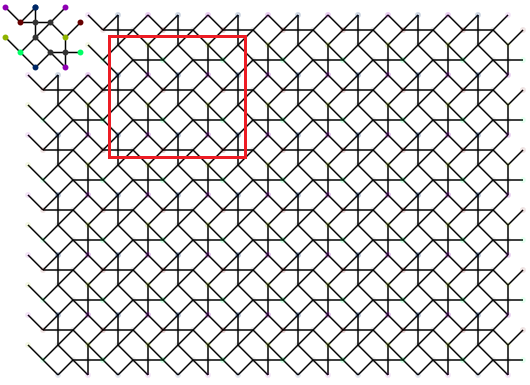
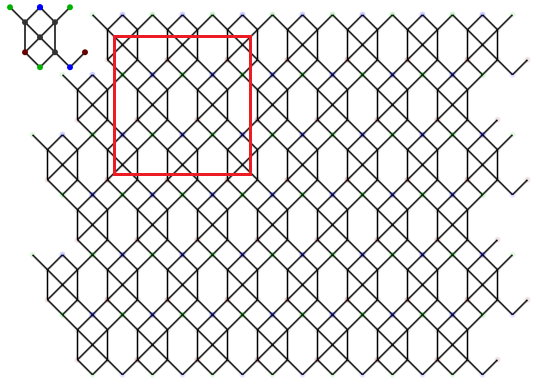
nr of columns versus pairs

diff --git a/Parameters.md b/Parameters.md
@@ -19,8 +19,8 @@ For larger diagrams in the sense of more stitches, increase rows and columns in 
 _Warning_ : With complex stitches and large numbers of rows and columns, your browser can get overwhelmed when showing the diagrams of level two or three.
 
 Note that the numbers don't reflect the number of pairs.
-The diagram below illustrates the initial state of the animated pair diagram
-which is a cutout or patch as for example the red rectangle.
-The example has eight rows, nine columns and is shifted by one in both directions.
+The diagram below illustrates the initial state of the animated pair diagram.
+The red rectangle is a cutout or patch, shifted by one in both directions.
+The patch has nine columns but uses only six pairs.
 
 ![](https://raw.githubusercontent.com/wiki/d-bl/GroundForge/images/cutout.png)
